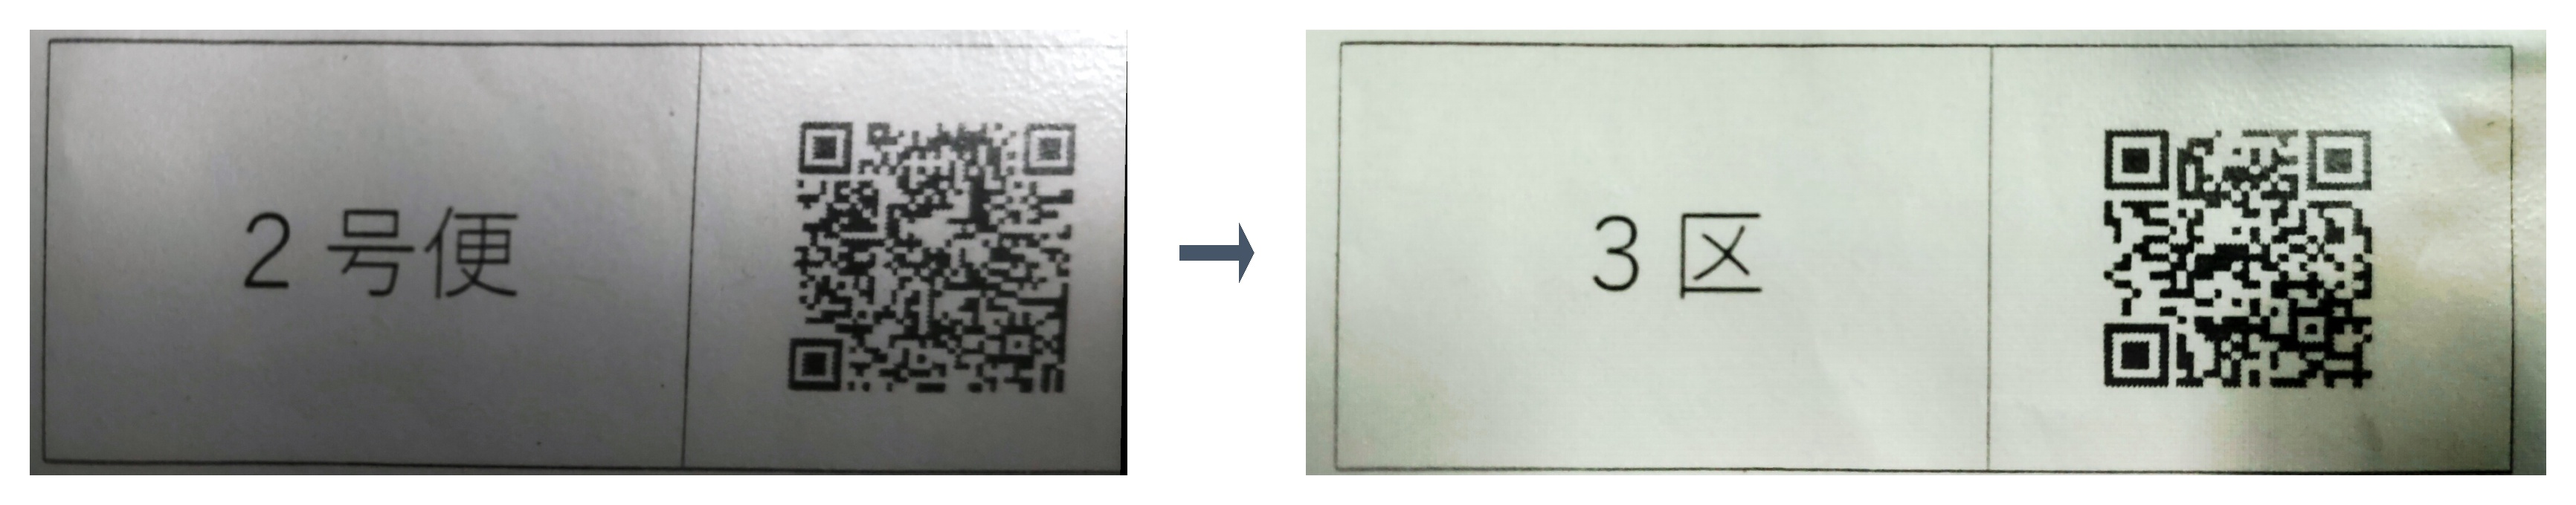
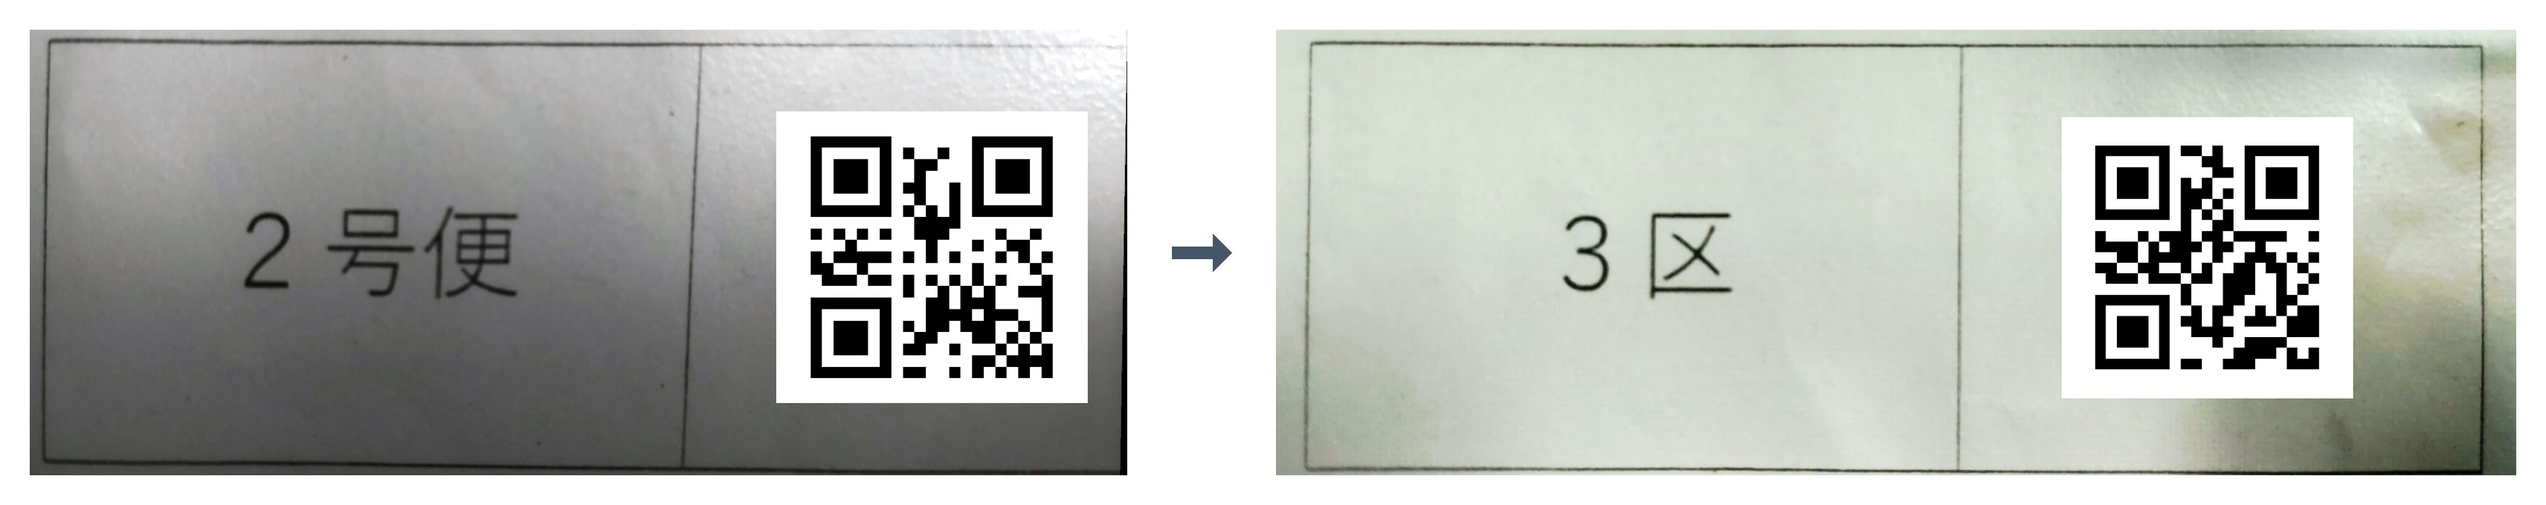
fix: 2便(BIN:02)、3便(BIN:03)、特便(BIN:04)、3区(DIV:03)の正しいQRコードへの全面修正および原本画像差し替え

diff --git a/src/data/routes.ts b/src/data/routes.ts
@@ -21,7 +21,7 @@ export const WARD_ROUTES: Record<number, WardRoutes> = {
   3: {
     ward: 3,
     wardName: '3区',
-    defaultWardQrData: 'DIV:01',
+    defaultWardQrData: 'DIV:03',
     bannerImage: '/images/routes/weekday_all_3ku.jpg',
     weekday: [
       {
@@ -31,8 +31,8 @@ export const WARD_ROUTES: Record<number, WardRoutes> = {
         description: '午前収集（全28箇所）',
         qrImage: '/images/routes/weekday_bin2_3ku.jpg',
         badgeColor: 'bg-blue-600 text-white',
-        binQrData: 'BIN:01',
-        wardQrData: 'DIV:01',
+        binQrData: 'BIN:02',
+        wardQrData: 'DIV:03',
       },
       {
         id: 'bin3',
@@ -41,8 +41,8 @@ export const WARD_ROUTES: Record<number, WardRoutes> = {
         description: '午後収集（全28箇所）',
         qrImage: '/images/routes/weekday_bin3_3ku.jpg',
         badgeColor: 'bg-emerald-600 text-white',
-        binQrData: 'BIN:01',
-        wardQrData: 'DIV:01',
+        binQrData: 'BIN:03',
+        wardQrData: 'DIV:03',
       },
       {
         id: 'special',
@@ -51,8 +51,8 @@ export const WARD_ROUTES: Record<number, WardRoutes> = {
         description: '夕方主要局収集（4箇所のみ）',
         qrImage: '/images/routes/weekday_special_3ku.jpg',
         badgeColor: 'bg-amber-600 text-white',
-        binQrData: 'BIN:01',
-        wardQrData: 'DIV:01',
+        binQrData: 'BIN:04',
+        wardQrData: 'DIV:03',
       },
     ],
   },

diff --git a/src/components/RouteQRModal.tsx b/src/components/RouteQRModal.tsx
@@ -53,7 +53,9 @@ export default function RouteQRModal({
   useEffect(() => {
     if (typeof window !== 'undefined') {
       try {
-        const saved = localStorage.getItem('postcp_route_qrs');
+        // 旧バージョンの誤ったキャッシュ(BIN:01等)をクリア
+        localStorage.removeItem('postcp_route_qrs');
+        const saved = localStorage.getItem('postcp_route_qrs_v2');
         if (saved) {
           setCustomQrStrings(JSON.parse(saved));
         }
@@ -121,7 +123,7 @@ export default function RouteQRModal({
       },
     };
     setCustomQrStrings(next);
-    localStorage.setItem('postcp_route_qrs', JSON.stringify(next));
+    localStorage.setItem('postcp_route_qrs_v2', JSON.stringify(next));
     setIsEditingData(false);
     setSaveToast(true);
     setTimeout(() => setSaveToast(false), 2500);
@@ -132,7 +134,7 @@ export default function RouteQRModal({
     const next = { ...customQrStrings };
     delete next[currentShift.id];
     setCustomQrStrings(next);
-    localStorage.setItem('postcp_route_qrs', JSON.stringify(next));
+    localStorage.setItem('postcp_route_qrs_v2', JSON.stringify(next));
     setEditBinStr(currentShift.binQrData);
     setEditWardStr(currentShift.wardQrData);
     setIsEditingData(false);

diff --git a/src/lib/offline-manager.ts b/src/lib/offline-manager.ts
@@ -3,7 +3,7 @@
 import { useEffect, useState } from 'react';
 import { PostItem } from '@/types/post';
 
-const CACHE_NAME = 'postcp-cache-v4';
+const CACHE_NAME = 'postcp-cache-v5';
 
 export function registerServiceWorker() {
   if (typeof window !== 'undefined' && 'serviceWorker' in navigator) {

diff --git a/public/sw.js b/public/sw.js
@@ -1,5 +1,5 @@
 // PostCP Service Worker - オフライン対応キャッシュ
-const CACHE_NAME = 'postcp-cache-v4';
+const CACHE_NAME = 'postcp-cache-v5';
 
 // 必須キャッシュリスト
 const STATIC_ASSETS = [
